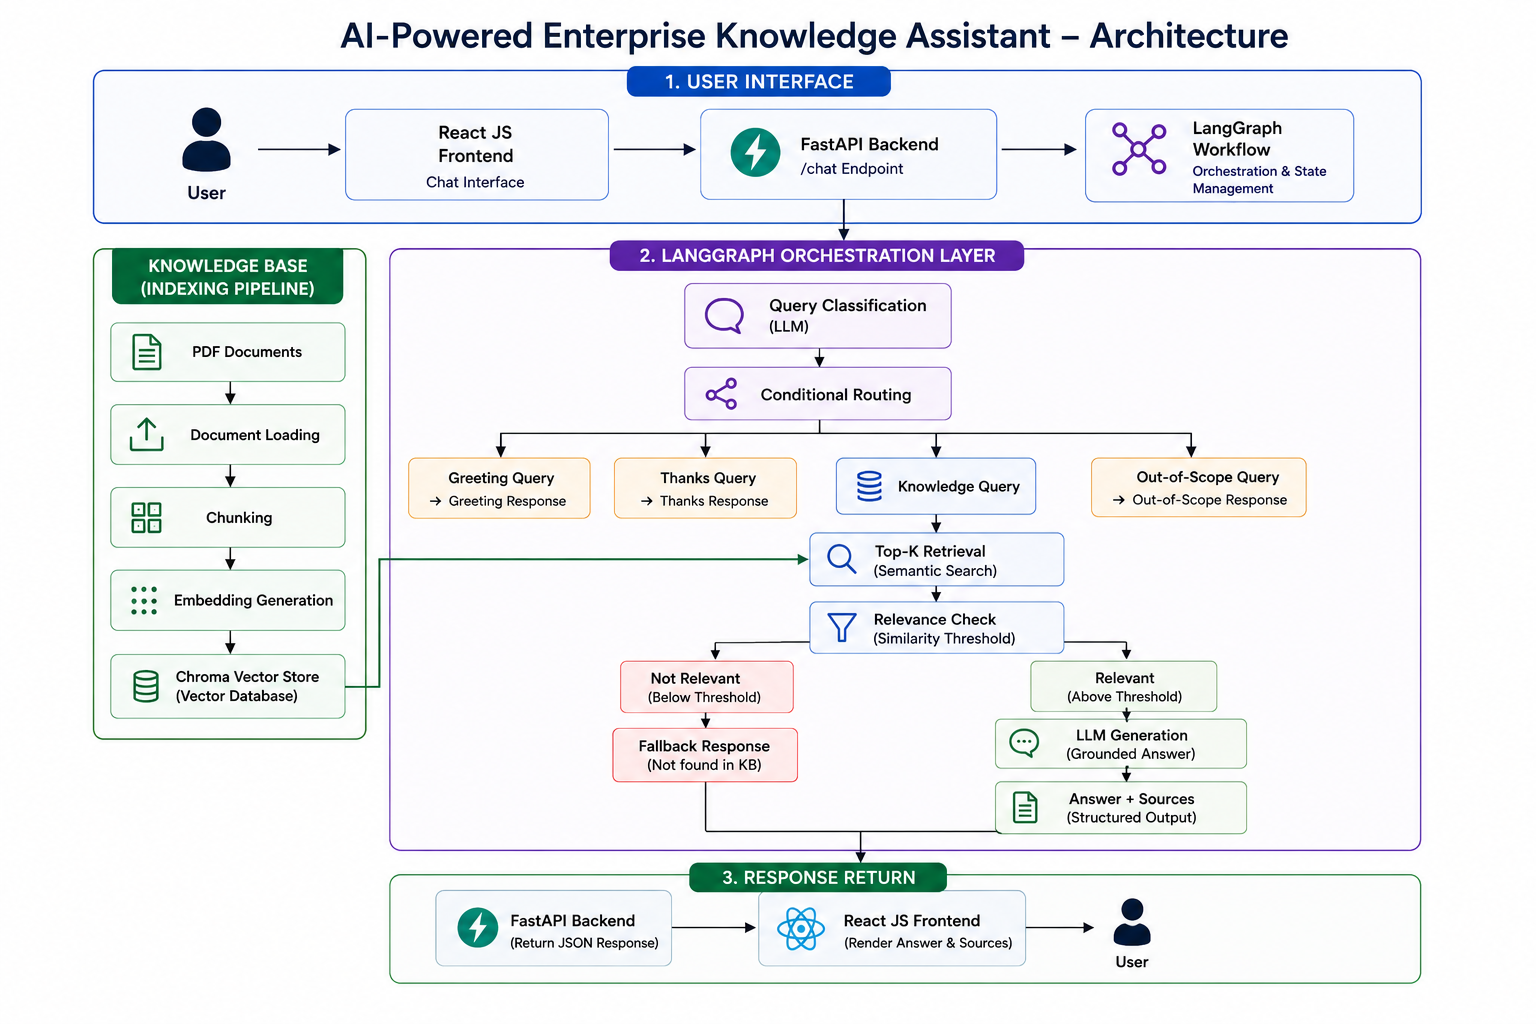
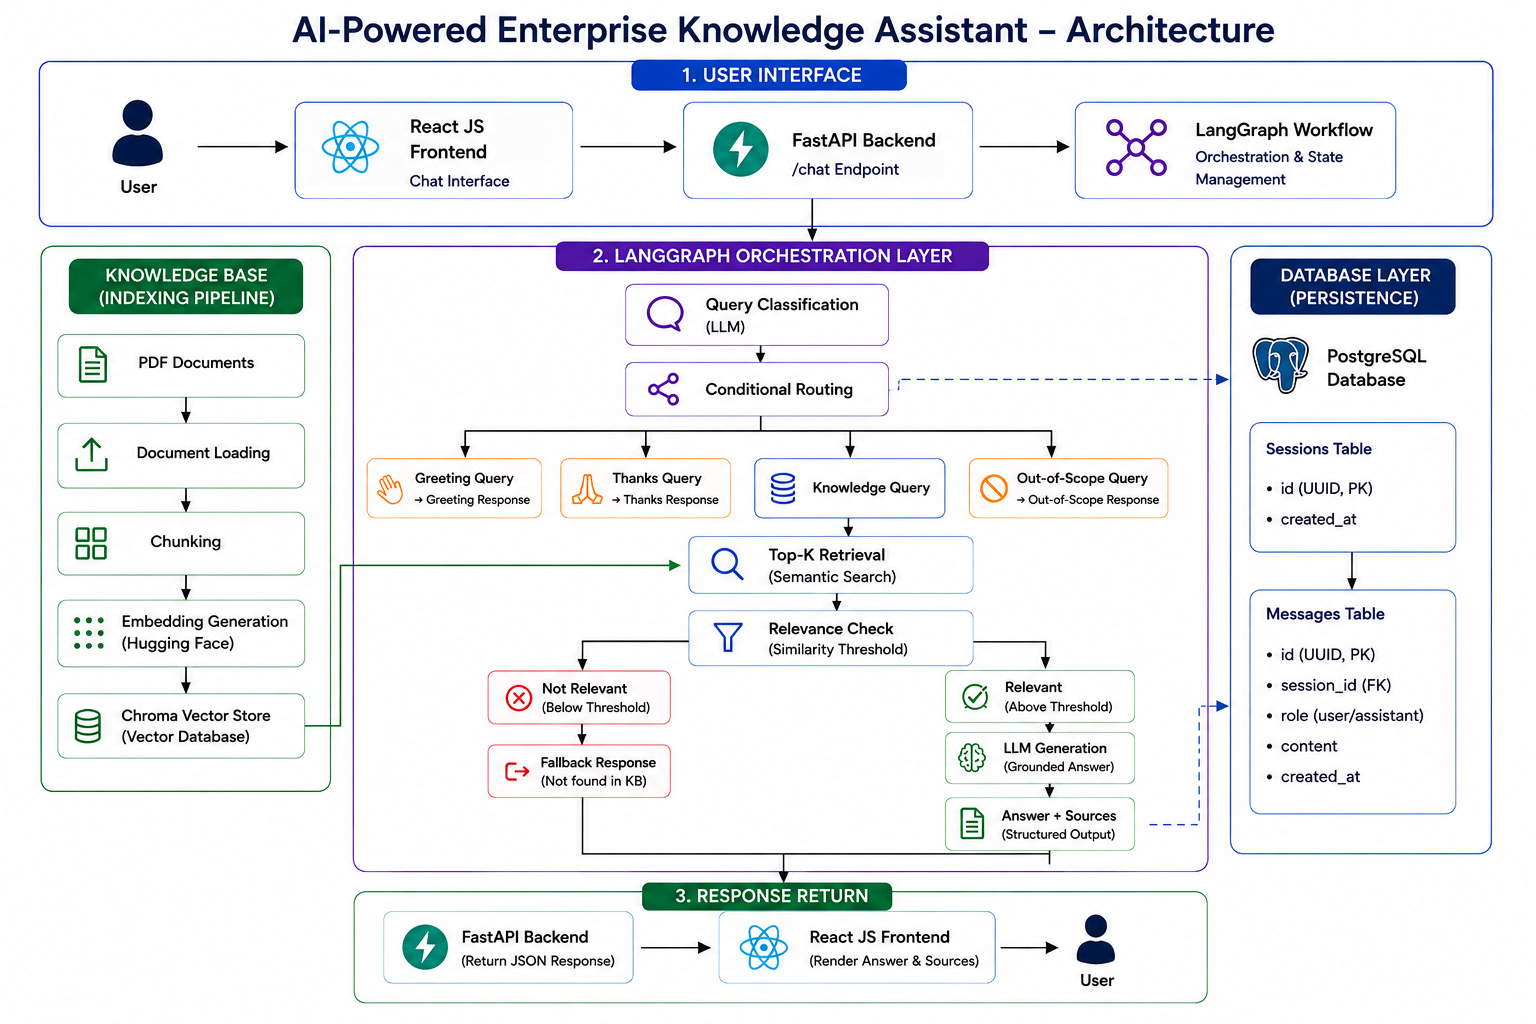
updated readme

Changed region(s): [[0.0312, 0.0, 0.9688, 0.9688], [0.7812, 0.9375, 0.8125, 0.9688]]

diff --git a/README.md b/README.md
@@ -29,6 +29,9 @@ LangGraph used to orchestrate the query-processing workflow.
 - Source citation from document metadata
 - Fallback response for irrelevant queries
 - Out-of-scope query handling
+- PostgreSQL database integration
+- Persistent chat sessions and message history
+- Session-based conversation history
 
 ## Frontend
 
@@ -41,6 +44,7 @@ frontend/
     ├── components/    # Chatinput, Chatwindow, Navbar
     ├── pages/         # ChatPage
     └── services/      # api.js — centralized Axios instance
+   
 ```
 
 - All API calls go through `services/api.js` rather than being called
@@ -51,23 +55,22 @@ frontend/
   component files.
 ## Backend
 
-FastAPI service exposing the `/chat` endpoint that the frontend calls.
+FastAPI service exposing chat and session APIs that the frontend calls.
 Owns document ingestion, chunking, embedding, vector storage, retrieval,
 and LangGraph-orchestrated answer generation.
 
 ```text
 backend/
 └── app/
-    ├── core/          # config, settings, shared utilities
+    ├── core/           # config, settings, shared utilities
     ├── graph/          # LangGraph workflow definition
     ├── loaders/        # document loading  
     ├── services/       # chunking, retrieval, and application logic
     └── vectorstore/    # embedding + vector DB integration
-
+    ├── db/             # SQLAlchemy database, models, and repository functions
 ```
 
-The backend currently provides a working `/chat` endpoint with CORS enabled for 
-the frontend. The RAG pipeline and LangGraph workflow are integrated into the backend
+The backend provides chat and session APIs with CORS enabled for the frontend. The RAG pipeline, LangGraph workflow, and PostgreSQL-based chat persistence are integrated into the backend.
 
 ### RAG Core Pipeline
 
@@ -142,11 +145,13 @@ LANGCHAIN_PROJECT=your_project_name
 
 ### `POST /chat`
 
-Accepts a user question and returns a generated answer.
+Accepts a user question and session ID, processes the question through the RAG/LangGraph pipeline, stores the user and assistant messages, and returns the generated answer and sources.
 
 **Request**
 ```json
-{ "question": "What is the reimbursement policy for conference travel?" }
+{ "question": "What is the reimbursement policy for conference travel?",
+  "session_id": "your-session-id"
+ }
 ```
 
 **Response**
@@ -158,6 +163,13 @@ Accepts a user question and returns a generated answer.
   ]
 }
 ```
+### `POST /sessions`
+
+Creates a new chat session and returns a session ID.
+
+### `GET /sessions/{session_id}/messages`
+
+Retrieves the message history for a specific chat session.
 
 
 
